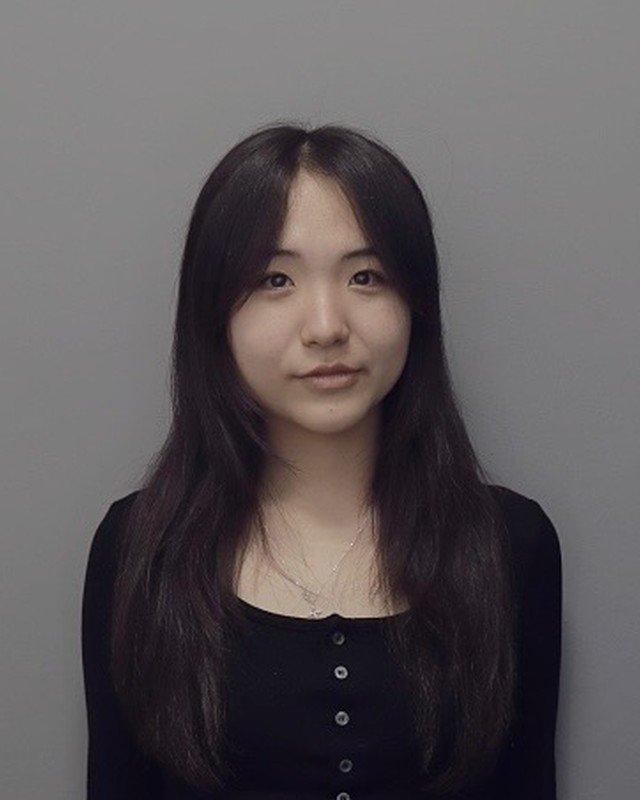
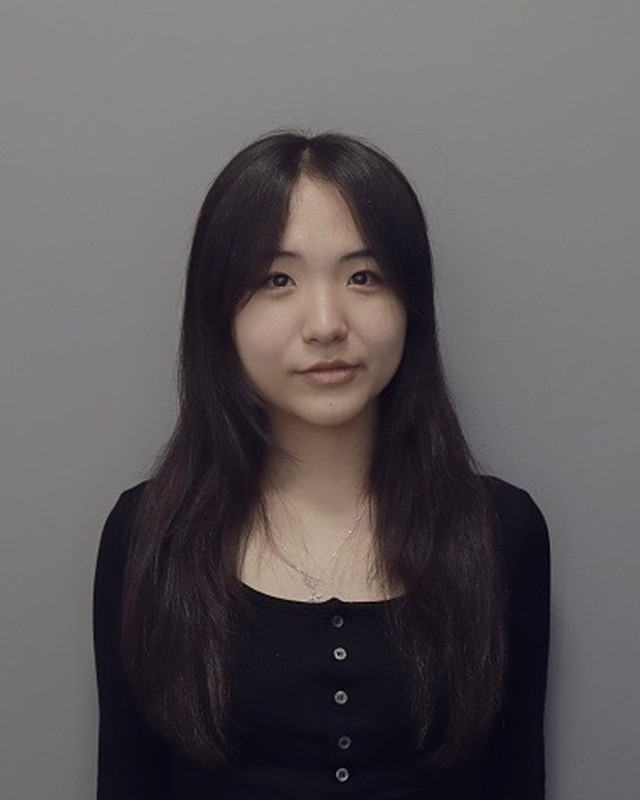
Allison's headshot: zoom out 5% so she doesn't read larger than Jason
Claude-Session: https://claude.ai/code/session_016ECcn6rEAfg41MdqzsDs9m

diff --git a/CLAUDE.md b/CLAUDE.md
@@ -34,6 +34,6 @@ Read this before every change. It is the only context you have about this organi
 - Mobile-friendly on every page. Check a 390px-wide phone layout.
 
 ## Placeholders still open
-- Donation link is live: https://www.zeffy.com/en-US/donation-form/support-heartlines-international (every Donate button points there, opening in a new tab). Founder photos are live (Nov 11, 2026): matching "Official" headshots of Jason and Allison on the same gray background (the founders' edited "Jason - Official.jpeg" and "Allison - Official.jpeg", Nov 11, used as is with no color changes), cropped 4:5 at 640x800 with the same framing (head to mid-chest; eye line 35% from the top; crop width = 4.26 x eye-to-chin distance so both faces are the same size), EXIF stripped. The sources are only about 500x600, so the crops are upscaled about 1.7x; replace them with higher-resolution exports if the founders have them; shown as rounded 4:5 `.headshot` images, and listed as `image` in the JSON-LD. Board row: Joshua Kim (photo still needed) and Hyungjun Ham (intentionally the placeholder) show images/team/profile-placeholder.svg as a 72px circle, smaller because those are supporting roles (Nov 6, 2026).
+- Donation link is live: https://www.zeffy.com/en-US/donation-form/support-heartlines-international (every Donate button points there, opening in a new tab). Founder photos are live (Nov 11, 2026): matching "Official" headshots of Jason and Allison on the same gray background (the founders' edited "Jason - Official.jpeg" and "Allison - Official.jpeg", Nov 11, used as is with no color changes), cropped 4:5 at 640x800 with the same framing (head to mid-chest; eye line 35% from the top; crop width = 4.26 x eye-to-chin distance so both faces are the same size; Allison's crop is then widened 5%, 380 px instead of 362, at the founders' request so her body doesn't read larger than Jason's), EXIF stripped. The sources are only about 500x600, so the crops are upscaled about 1.7x; replace them with higher-resolution exports if the founders have them; shown as rounded 4:5 `.headshot` images, and listed as `image` in the JSON-LD. Board row: Joshua Kim (photo still needed) and Hyungjun Ham (intentionally the placeholder) show images/team/profile-placeholder.svg as a 72px circle, smaller because those are supporting roles (Nov 6, 2026).
 - Instagram: https://www.instagram.com/heartlinesinternational/ (@heartlinesinternational).
 - Chipotle fundraiser held Nov 8, 2026 (Chipotle reports $92.71 for HINT from $370.84 in sales; check expected about Dec 10). Its site mentions and `src/_data/fundraiser.js` were removed in the Nov 10 cleanup. Keep the files in images/chipotle/ until the check arrives. Don't alter Chipotle's official flyer if it's ever added.
